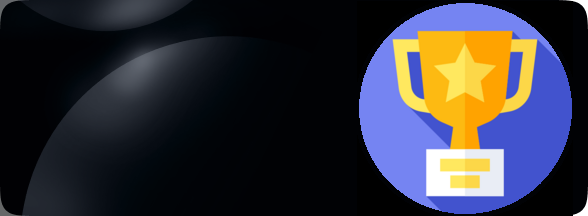
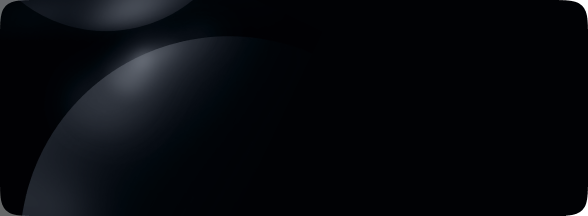
Updated Hero

Changed region(s): [[0.6122, 0.0, 0.9796, 1.0]]

diff --git a/index.html b/index.html
@@ -35,6 +35,7 @@
    					<ul>
               <li><a href="#committees">Committees</a></li>
    						<li><a href="#team">Team</a></li>
+   						<li><a href="#prizes">Prizes</a></li>
               <li><a href="#aboutnfaqs">About</a></li>
               <li><a href="#aboutnfaqs">FAQs</a></li>
    					</ul>
@@ -59,6 +60,7 @@
    							<ul style=>
    								<li><a href="#committees">Committees</a></li>
    								<li><a href="#team">Team</a></li>
+                  <li><a href="#prizes">Prizes</a></li>
    								<li><a href="#aboutnfaqs">About</a></li>
    								<li><a href="#aboutnfaqs">FAQs</a></li>
    							</ul>
@@ -73,14 +75,14 @@
    					</div>
    					<div class="col-lg-3 d-none d-lg-block">
    						<div class="cs-header-button cs-btn-group justify-content-end">
-   							<a href="#register" class="cs-btn cs-btn-outline" style="color: #e4d7b2; border-color: #e4d7b2;">Register Now</a>
+   							<a href="#register" class="cs-btn cs-btn-outline">Register Now</a>
    						</div>
    					</div>
    				</div>
    			</nav>
    		</header>
 
-   		<section class="cs-hero-wrapper pt-5 pb-5">
+   		<section class="cs-hero-wrapper pt-5 pb-3">
    			<div class="container">
    				<div class="row">
    					<div class="col-lg-6 wow animate__animated animate__fadeInLeft">
@@ -89,7 +91,7 @@
    							<p class="cs-hero-desc">BMS MUN 2025 is an international Model United Nations conference hosted by BMS MUN Society. It brings together students to engage in high-quality debates, diplomatic discussions, and global problem-solving.</p>
    							<div class="cs-btn-group">
    								<a href="#register" class="cs-btn cs-btn-fill">Register Now<i class="fa-solid fa-arrow-right"></i></a>
-   								<a href="https://drive.google.com/file/d/1aG6OnoboEheMdzni9eDSnACrzQPyQY1z/view?usp=sharing" target="_blank" class="cs-btn cs-btn-underline">View Brochure</a>
+   								<a href="https://drive.google.com/file/d/1aG6OnoboEheMdzni9eDSnACrzQPyQY1z/view?usp=sharing" target="_blank" class="cs-btn cs-btn-outline">View Brochure</a>
    							</div>
    						</div>
    					</div>
@@ -102,12 +104,6 @@
    										<p class="card-text">18th, 19th and 20th April 2025</p>
    									</div>
    								</div>
-   							</div>
-   						</div>
-              <div class="cs-card-ful wow animate__animated animate__fadeInRight"  data-wow-duration="1.2s" style="background-image: url(assets/images/hero-content-bg.png);">
-   							<div class="cs-card-content">
-   								<div class="cs-card-subheading"><span></span><p>An exciting prize pool of</p></div>
-   								<h3>₹ 1 Lakh</h3>
    							</div>
    						</div>
    					</div>
@@ -957,7 +953,81 @@
            </div>
          </div>
        </div>
-     </section>
+      </section>
+
+      <section id="prizes" class="cs-title-area cs-about-wrapper pt-5 pb-5">
+      <div class="container">
+        <div class="row mb-4">
+          <div class="col-lg-6 wow animate__ animate__fadeInLeft animated" style="visibility: visible; animation-name: fadeInLeft;">
+            <h2 class="cs-sec-title">Prize Pool</h2>
+          </div>
+        </div>
+        <div id="prize-hero" class="row pt-3 pb-3 wow animate__animated animate__fadeInUp" data-wow-duration="1s">
+          <div class="col-lg-12">
+            <div class="card cs-about-card border-0" style="background-position: top; background-image: linear-gradient(rgba(0, 0, 0, 0.5), rgba(0, 0, 0, 0.5)), url(assets/images/hero-content-bg.png);">
+              <div class="card-body">
+                <div class="cs-card-header cs-counter">
+                  <h2 class="card-title">Total Prize Pool</h2>
+                </div>
+                <div class="cs-card-footer">
+                  <p class="card-title" style="text-align: right; padding:0px 20px 20px 0px; color: white;">₹ 1,00,000</p>
+                </div>
+              </div>
+            </div>
+          </div>
+        </div>
+        <div id="prize-ladder" class="row pt-3 pb-3">
+          <div class="col-lg-3 wow animate__animated animate__fadeInRight" data-wow-duration="1.2s">
+            <div class="card cs-about-card border-0" style="background-position: top; background-image: linear-gradient(rgba(0, 0, 0, 0.5), rgba(0, 0, 0, 0.5)), url(assets/images/high-commendation.jpg);">
+              <div class="card-body">
+                <div class="cs-card-header cs-prize">
+                  <h2 class="card-title">High <br>Commendation</h2>
+                </div>
+                <div class="cs-card-footer">
+                  <p class="card-title" style="text-align: right; padding:10px 10px 20px 0px; color: white;">₹ 4,500</p>
+                </div>
+              </div>
+            </div>
+          </div>
+          <div class="col-lg-3 wow animate__animated animate__fadeInRight" data-wow-duration="1.4s">
+            <div class="card cs-about-card border-0" style="background-position: top; background-image: linear-gradient(rgba(0, 0, 0, 0.5), rgba(0, 0, 0, 0.5)), url(assets/images/best-delegation.jpg);">
+              <div class="card-body">
+                <div class="cs-card-header cs-prize">
+                  <h2 class="card-title">Best <br>Delegation</h2>
+                </div>
+                <div class="cs-card-footer">
+                  <p class="card-title" style="text-align: right; padding:10px 10px 20px 0px; color: white;">₹ 15,000</p>
+                </div>
+              </div>
+            </div>
+          </div>
+          <div class="col-lg-3 wow animate__animated animate__fadeInRight" data-wow-duration="1.6s">
+            <div class="card cs-about-card border-0" style="background-image: linear-gradient(rgba(0, 0, 0, 0.5), rgba(0, 0, 0, 0.5)), url(assets/images/best-delegate.jpg);">
+              <div class="card-body">
+                <div class="cs-card-header cs-prize">
+                  <h2 class="card-title">Best <br>Delegate</h2>
+                </div>
+                <div class="cs-card-footer">
+                  <p class="card-title" style="text-align: right; padding:10px 10px 20px 0px; color: white;">₹ 8,000</p>
+                </div>
+              </div>
+            </div>
+          </div>
+          <div class="col-lg-3 wow animate__animated animate__fadeInRight" data-wow-duration="1.8s">
+            <div class="card cs-about-card border-0" style="background-image: linear-gradient(rgba(0, 0, 0, 0.5), rgba(0, 0, 0, 0.5)), url(assets/images/special-mention.jpg);">
+              <div class="card-body">
+                <div class="cs-card-header cs-prize">
+                  <h2 class="card-title">Special <br>Mention</h2>
+                </div>
+                <div class="cs-card-footer">
+                  <p class="card-title" style="text-align: right; padding:10px 10px 20px 0px; color: white;">₹ 3,000</p>
+                </div>
+              </div>
+            </div>
+          </div>
+        </div>
+      </div>
+      </section>
 
       <section id="aboutnfaqs" class="cs-faqs-wrapper">
         <div class="container-fluid cs-faqs-inner">
@@ -1061,6 +1131,7 @@
               <li class="nav-item"><a href="#" class="nav-link">Home</a></li>
               <li class="nav-item"><a href="#committees" class="nav-link">Committees</a></li>
               <li class="nav-item"><a href="#team" class="nav-link">Team</a></li>
+              <li class="nav-item"><a href="#prizes" class="nav-link">Prizes</a></li>
               <li class="nav-item"><a href="#aboutnfaqs" class="nav-link">About</a></li>
               <li class="nav-item"><a href="#aboutnfaqs" class="nav-link">FAQs</a></li>
             </ul>

diff --git a/css/style.css b/css/style.css
@@ -179,11 +179,11 @@ ins {
   column-gap: 10px;
 }
 .cs-btn-group .cs-btn-outline{
-  padding: 13px 16px;
+  padding: 16px 16px;
   display: inline-block;
   background-color: transparent;
-  color: var(--base-color);
-  border: 1px solid var(--base-color);
+  color: #e4d7b2;
+  border: 1px solid #e4d7b2;
   border-radius: 50px;
   line-height: 22px;
   font-weight: bold;
@@ -196,6 +196,7 @@ ins {
 .cs-btn-group .cs-btn-outline:focus{
   background-color: var(--bright-green-color);
   border-color: var(--bright-green-color);
+  color: black;
 }
 .cs-btn-group .cs-round-btn{
   border: none;
@@ -226,7 +227,7 @@ ins {
   letter-spacing: -.32px;
 }
 .cs-btn-group .cs-btn-fill i{
-  margin-left: 30px;
+  margin-left: 15px;
 }
 .cs-btn-group .cs-btn-fill:hover,
 .cs-btn-group .cs-btn-fill:active,
@@ -239,8 +240,8 @@ ins {
   padding: 0px;
   display: inline-block;
   background-color: transparent;
-  color: var(--base-color);
-  border-bottom: 1px solid var(--base-color);
+  color: var(--white-color);
+  border-bottom: 1px solid var(--white-color);
   line-height: 20px;
   font-weight: bold;
   font-size: 16px;
@@ -266,6 +267,11 @@ ins {
   display: inline-block;
   padding: 0;
   font-size: 44px;
+}
+@media only screen and (max-width: 393px) {
+  .cs-btn-group .cs-btn-fill{
+    padding: 16px 30px;
+  }
 }
 /*------------------- 4.3. Creative Titles  -------------------*/
 .cs-title-area .cs-sec-title{
@@ -338,13 +344,12 @@ ins {
   column-gap: 30px;
   margin-bottom: 32px;
 }
-/**** IPAD Media Query ****/
-@media only screen and (max-width: 991px) {
-  .cs-header {
-    padding-bottom: 10px;
+
+@media only screen and (max-width: 393px) {
+  .cs-hero-content .cs-btn-group{
+    column-gap: 20px;
   }
 }
-
 /**** Mobile Header ****/
 .cs-navbar-right {
   gap: 15px;
@@ -436,8 +441,12 @@ ins {
   font-size: 20px;
 }
 /*------------------- 4.6. Creative Hero Section  -------------------*/
+.cs-hero-wrapper{
+  background-color: black;
+}
+
 .cs-hero-content .cs-hero-title{
-  color: var(--base-color);
+  color: white;
   font-size: 4.5rem;
   line-height: 5.8rem;
   font-weight: 600;
@@ -446,7 +455,7 @@ ins {
   margin-bottom: 32px;
 }
 .cs-hero-content .cs-hero-desc{
-  color: var(--manatee-color);
+  color: white;
   font-size: 16px;
   font-weight: 500;
   line-height: 28px;
@@ -463,6 +472,9 @@ ins {
   letter-spacing: 0;
   margin-bottom: 0px;
 }
+.cs-hero-card{
+  background-color: transparent;
+}
 .cs-hero-card .card-body{
   background-color: var(--light-gray);
   border-radius: 20px;
@@ -478,11 +490,12 @@ ins {
   margin-bottom: 30px;
 }
 .cs-hero-card .card-body .card-text{
-  font-size: 18px;
+  font-size: 1.8rem;
   font-weight: 500;
   line-height: 24px;
   font-style: normal;
   color: var(--dark-gray-color);
+  padding-bottom: 20px;
 }
 .cs-hero-card .progress{
   background-color: var(--silver-gray);
@@ -550,7 +563,9 @@ ins {
     margin-bottom: 15px;
   }
   .cs-hero-card .card-body .card-text{
+    font-size: 1.4rem;
     margin-bottom: 35px;
+    padding-bottom: 0px;
   }
   .cs-card-ful .cs-card-content {
     max-width: 70%;
@@ -579,17 +594,8 @@ ins {
     flex-direction: column;
     align-items: start;
   }
-
-  .cs-btn-group{
-    align-items: start;
-  }
-
   .cs-btn-underline{
     margin-top: 15px;
-  }
-
-  .cs-hero-content .cs-btn-group a:first-child{
-    margin-bottom: 15px;
   }
   .cs-hero-clients {
     column-gap: .5rem;
@@ -662,7 +668,22 @@ ins {
   font-style: normal;
   text-align: center;
 }
-
+.cs-about-card .card-body .cs-prize .card-title{
+  font-size: 2.3rem;
+  font-weight: 700;
+  line-height: normal;
+  color: var(--white-color);
+  letter-spacing: -0.48px;
+  margin-bottom: 0;
+}
+@media only screen and (max-width: 1399px) {
+  .cs-about-card .card-body .cs-prize .card-title{
+    font-size: 1.5rem;
+  }
+  .cs-about-card .card-body .card-title{
+    font-size: 2.5rem;
+  }
+}
 /**** IPAD PRO Media Query ****/
 @media only screen and (max-width: 1366px) {
   .cs-title-area .cs-sec-title{
@@ -680,6 +701,9 @@ ins {
 }
 /**** IPAD Media Query ****/
 @media only screen and (max-width: 991px) {
+  .cs-about-card .card-body .cs-prize .card-title{
+    font-size: 2.3rem;
+  }
   .cs-about-card{
     margin-bottom: 1.5rem;
   }
@@ -1014,7 +1038,7 @@ ins {
     padding: 10px 12px !important;
   }
   .cs-faqs-wrapper .cs-faqs-inner {
-    padding: 60px 30px !important;
+    padding: 30px 30px !important;
   }
   .cs-accordion-wrap .accordion-item .accordion-header .accordion-button{
     font-size: 20px;
@@ -1024,7 +1048,7 @@ ins {
 /**** IPAD Media Query ****/
 @media only screen and (max-width: 981px) {
   .cs-faqs-wrapper .cs-faqs-inner {
-    padding: 60px 15px !important;
+    padding: 20px 15px !important;
   }
   .cs-accordion-wrap{
     margin-top: 2rem;

diff --git a/js/main.js b/js/main.js
@@ -203,6 +203,8 @@ let width = screen.width;
 if(width<992){
   document.getElementById('coordinator').classList.remove("pb-3");
   document.getElementById('oc-team').classList.remove("pt-3");
+  document.getElementById('prize-hero').classList.remove("pb-3");
+  document.getElementById('prize-ladder').classList.remove("pt-3");
 }
 
 let clickTimes = [];
